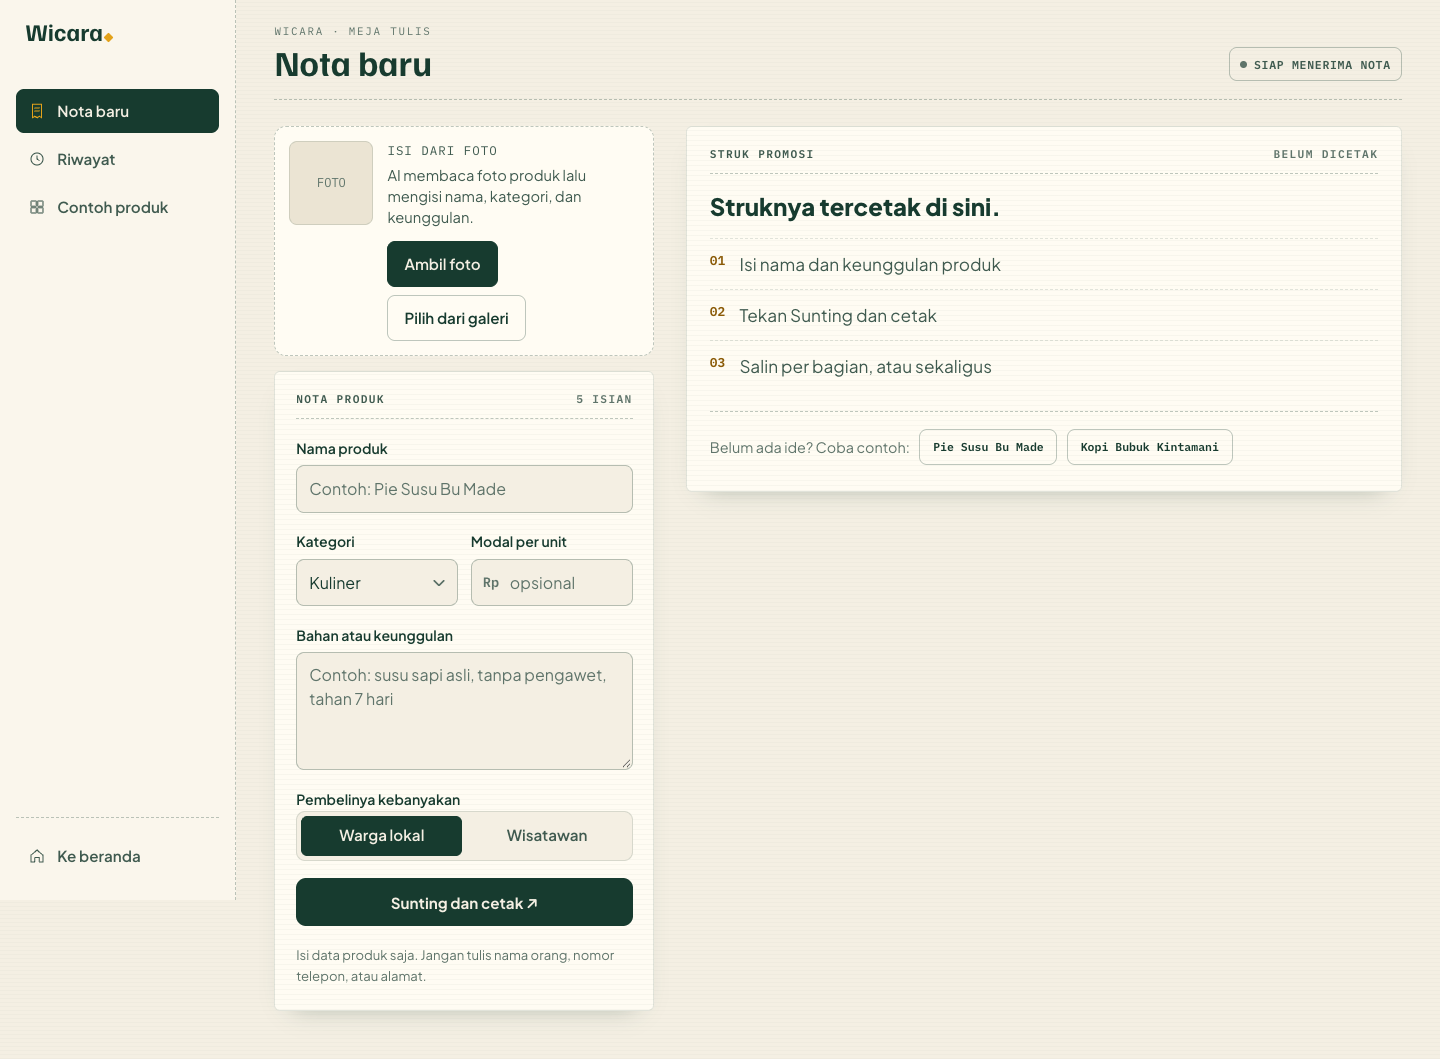
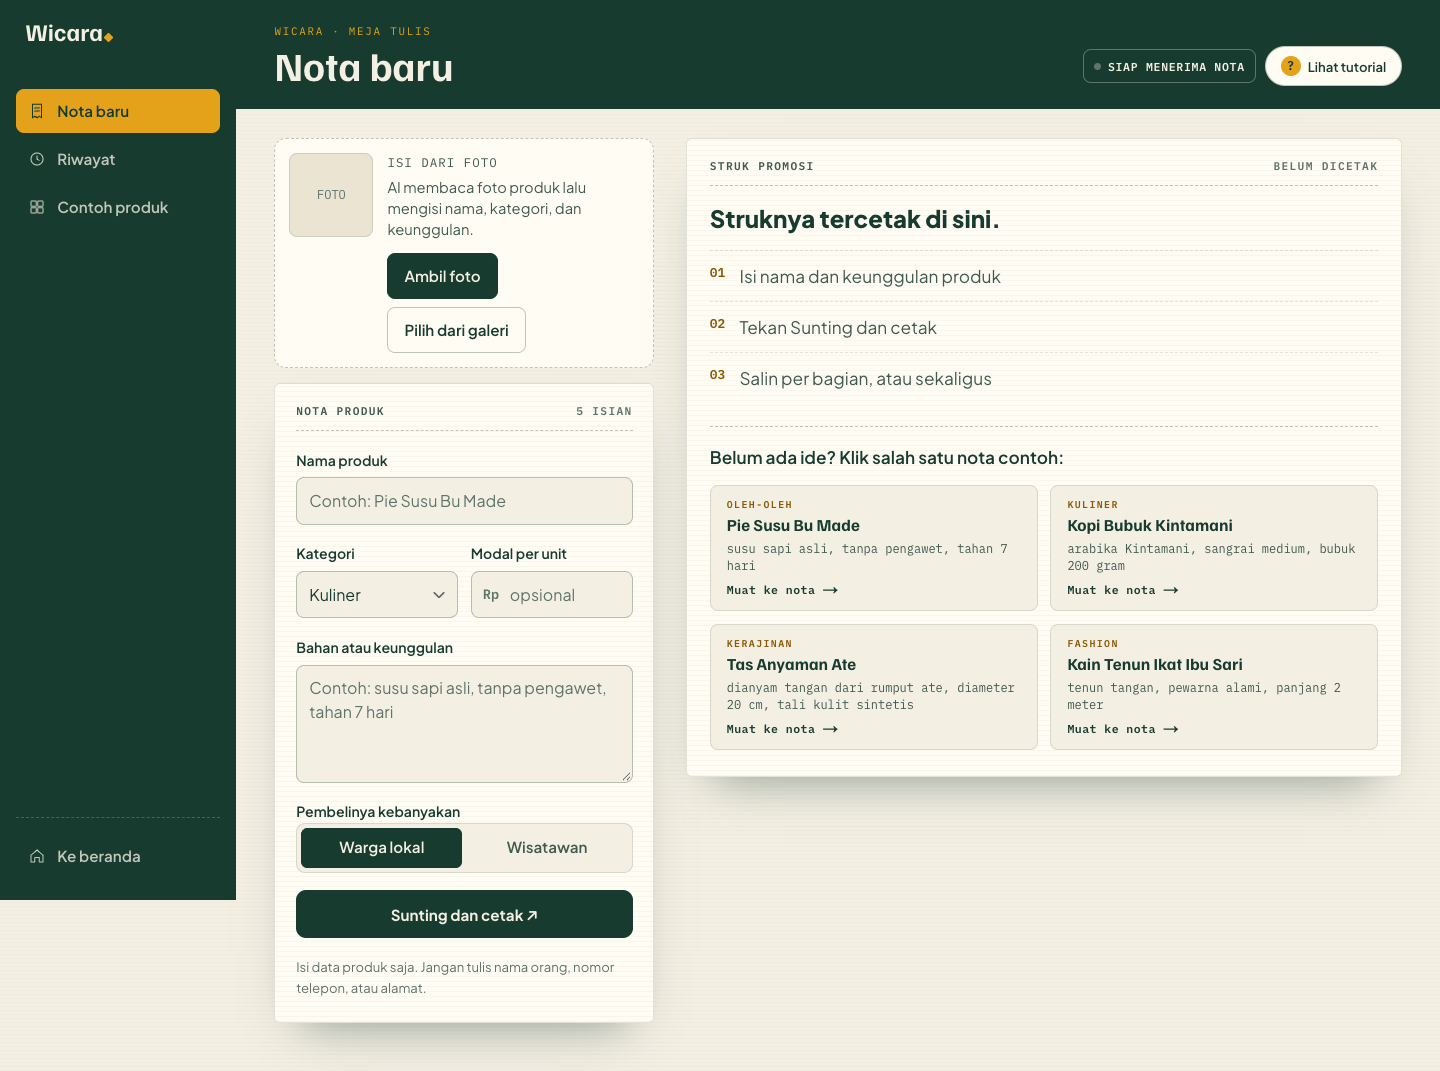
Tampilan lebih berlapis: hero foto setengah layar, latar selang-seling, app berkepala hijau
- Hero: foto lapak setengah layar sampai tepi, nota disunting di depannya dengan bayangan dalam, judul lebih besar, ornamen patra di sudut
- Latar bagian selang-seling krem, kertas, dan hijau; stempel kepala bagian terisi kunyit
- Fitur: akordion berdampingan dengan foto dan tabel Tulisan Anda | Hasil Wicara yang menumpang di atasnya
- App: kepala dan sidebar hijau daun, menu aktif kunyit, kartu bayangan lebih dalam
- Empty state app: empat nota contoh yang bisa diklik untuk memuat isian
- State memuat: baris isian disapu stabilo satu per satu dengan pena yang bergerak

diff --git a/app/globals.css b/app/globals.css
@@ -559,6 +559,76 @@ html.lenis { scroll-behavior: auto; }
 .tab-bawah [aria-current="page"] .icon { color: var(--kunyit-teks); }
 @media (min-width: 1100px) { .tab-bawah { display: none; } }
 
+
+/* ---------- Lapisan dan kedalaman (revisi 6 Nov malam) ---------- */
+.latar-2 { background-color: var(--kertas-2); }
+.latar-hi { background-color: var(--kertas-hi); }
+.kicker { border-bottom: 3px solid var(--kunyit); }
+.stempel { background: var(--kunyit); border-color: #173b2f; outline-color: #173b2f; color: #173b2f; }
+.stempel b { color: #173b2f; }
+.karbon .stempel { background: var(--kunyit); border-color: var(--kunyit); outline-color: var(--kunyit); color: #173b2f; }
+.karbon .stempel b { color: #173b2f; }
+
+/* Hero: foto setengah layar, nota menumpang di depannya */
+.hero { position: relative; overflow: hidden; }
+.hero-patra { position: absolute; left: -24px; top: 64px; width: 220px; height: 220px; opacity: 0.55; pointer-events: none; }
+.hero-judul { font-size: clamp(2.6rem, 1.5rem + 3.9vw, 4.6rem); line-height: 1; max-width: 11ch; }
+.hero-kiri { min-width: 0; }
+@media (max-width: 959px) { .hero-patra { display: none; } }
+.hero-foto::after { content: ""; position: absolute; inset: 0; background: rgb(23 59 47 / 0.16); pointer-events: none; }
+.hero .nota::before { inset: 30px 10px 40px; box-shadow: 0 60px 90px -30px rgb(10 30 22 / 0.65), 0 18px 30px -18px rgb(10 30 22 / 0.5); }
+@media (min-width: 960px) {
+  .hero { display: flex; align-items: center; min-height: calc(100vh - 64px); padding: 4.5rem 0; }
+  .hero-grid { width: 100%; grid-template-columns: 1fr 1fr; }
+  .hero-kiri { position: relative; z-index: 2; }
+  .hero-panggung { position: static; display: flex; align-items: center; min-height: 0; }
+  .hero-foto { position: absolute; top: 0; right: 0; bottom: 0; left: auto; width: 50vw; height: auto; border-radius: 0 0 0 28px; box-shadow: none; }
+  .hero-foto small { left: auto; right: 16px; }
+  .hero-panggung .nota { width: min(420px, 100%); margin: 0 0 0 -14%; }
+}
+
+/* Fitur: akordion dan visual berlapis */
+.fitur-grid { display: grid; gap: 2.4rem; margin-top: 2.4rem; align-items: start; }
+@media (min-width: 960px) { .fitur-grid { grid-template-columns: 1.15fr 0.85fr; gap: 3rem; } }
+.fitur-grid .ak { margin-top: 0; }
+.fitur-visual { position: relative; }
+.fv-foto { position: relative; display: block; aspect-ratio: 4 / 3; overflow: hidden; border-radius: 10px; box-shadow: var(--angkat); }
+.fitur-visual .tabel-nota { position: relative; width: calc(100% - 32px); max-width: none; margin: -56px 16px 0; padding: 1rem 1.1rem 0.6rem; border-collapse: separate; border-spacing: 0; background: var(--kertas-hi); border-radius: 8px; box-shadow: var(--angkat); }
+
+/* App: kepala hijau, sidebar hijau, nota contoh, pena menyunting */
+.kerja-atas { margin: -1.25rem calc(-1 * var(--tepi)) 1.6rem; padding: 1.3rem var(--tepi) 1.2rem; border-bottom: 0; background: var(--tinta); color: var(--kertas); }
+@media (min-width: 1100px) { .kerja-atas { margin: -1.6rem -2.4rem 1.8rem; padding: 1.6rem 2.4rem 1.4rem; } }
+.kerja-label { color: var(--kunyit); }
+.kerja-atas h1 { color: var(--kertas); font-size: clamp(1.8rem, 1.4rem + 1.4vw, 2.5rem); }
+.kerja-atas .status { border-color: rgb(255 255 255 / 0.3); color: var(--kertas); }
+@media (min-width: 1100px) {
+  .sisi { background: var(--tinta); border-right: 0; }
+  .sisi .merek { color: var(--kertas); }
+  .sisi .sisi-item { color: rgb(244 239 227 / 0.78); }
+  .sisi .sisi-item:hover { background: rgb(255 255 255 / 0.08); color: var(--kertas); }
+  .sisi .sisi-item[aria-current="page"] { background: var(--kunyit); color: #173b2f; }
+  .sisi .sisi-item[aria-current="page"] .icon { color: #173b2f; }
+  .sisi .sisi-bawah { border-color: rgb(255 255 255 / 0.2); }
+}
+.kertas-form, .kertas-hasil, .struk { box-shadow: var(--angkat); }
+.ka-pilih { margin-top: 1.4rem; padding-top: 1.1rem; border-top: 1.5px dashed var(--garis); font-weight: 600; }
+.ka-nota { list-style: none; display: grid; gap: 0.8rem; margin: 0.8rem 0 0; padding: 0; }
+@media (min-width: 640px) { .ka-nota { grid-template-columns: 1fr 1fr; } }
+.ka-nota button { display: flex; flex-direction: column; align-items: flex-start; gap: 0.3rem; width: 100%; height: 100%; padding: 0.9rem 1rem; border: 1.5px solid var(--garis-soft); border-radius: 8px; background: var(--kertas); text-align: left; cursor: pointer; transition: transform 0.2s var(--ease), box-shadow 0.2s, border-color 0.2s; }
+.ka-nota button:hover { transform: translateY(-3px) rotate(-0.6deg); border-color: var(--kunyit); box-shadow: var(--angkat-kecil); }
+.kn-kat { font: 600 0.62rem/1 var(--mono); letter-spacing: 0.14em; color: var(--kunyit-teks); }
+.ka-nota b { font: 700 1.05rem/1.2 var(--display); }
+.kn-isi { font: 400 0.75rem/1.45 var(--mono); color: var(--tinta-2); }
+.kn-muat { margin-top: auto; padding-top: 0.3rem; font: 600 0.72rem/1 var(--mono); letter-spacing: 0.04em; color: var(--tinta); }
+.pena-sunting { position: relative; margin: 0.4rem 0 1rem; padding: 0.6rem 0; }
+.pena-sunting p { position: relative; width: fit-content; max-width: 100%; margin: 0.35rem 0; font: 400 0.9rem/1.6 var(--mono); color: var(--tinta-2); }
+.pena-sunting p span { display: block; overflow: hidden; text-overflow: ellipsis; white-space: nowrap; }
+.pena-sunting p i { position: absolute; left: -2px; right: -2px; top: 0; bottom: 0; background: var(--stabilo); z-index: -1; transform-origin: left; transform: scaleX(0); animation: sapu-app 0.6s var(--ease) forwards; animation-delay: calc(0.3s + var(--i) * 0.6s); }
+.pena-sunting p { isolation: isolate; }
+@keyframes sapu-app { to { transform: scaleX(1); } }
+.pena-ikon { position: absolute; right: 0; top: 0; width: 34px; height: 34px; color: var(--bata); animation: tulis-app 0.9s ease-in-out infinite alternate; }
+@keyframes tulis-app { to { transform: translate(-14px, 10px) rotate(-8deg); } }
+
 @media (prefers-reduced-motion: reduce) {
   html { scroll-behavior: auto; }
   *, *::before, *::after { animation: none !important; transition: none !important; }

diff --git a/app/(landing)/page.js b/app/(landing)/page.js
@@ -5,7 +5,7 @@ import BerandaGerak from "../components/BerandaGerak";
 import KalenderBali from "../components/KalenderBali";
 import FiturAkordion from "../components/FiturAkordion";
 import GaleriNota from "../components/GaleriNota";
-import { Sulur } from "../components/Ornamen";
+import { Patra, Sulur } from "../components/Ornamen";
 import StrukHero from "../components/StrukHero";
 
 // Kepala bagian berupa stempel toko kecil yang sedikit miring.
@@ -62,6 +62,7 @@ export default function Beranda() {
   return (
     <>
       <section className="hero" aria-labelledby="hero-judul">
+        <Patra className="hero-patra" />
         <div className="wrap hero-grid">
           <div className="hero-kiri">
             <p className="kicker" data-intro><b>Wicara</b><span className="kicker-ekor">Asisten tulis jualan untuk UMKM Bali</span></p>
@@ -81,17 +82,11 @@ export default function Beranda() {
               <button type="submit" className="btn-hijau" data-magnet>Tulis sekarang <span className="panah">→</span></button>
             </form>
             <a className="tautan-garis" href="#cara-kerja" data-intro>Atau lihat cara kerja →</a>
-            <table className="tabel-nota" data-intro>
-              <thead><tr><th scope="col">Tulisan Anda</th><th scope="col">Hasil Wicara</th></tr></thead>
-              <tbody>
-                {TABEL.map(([a, b], i) => <tr key={i}><td>{a}</td><td>{b}</td></tr>)}
-              </tbody>
-            </table>
           </div>
           <div className="hero-panggung">
             <span className="hero-foto">
               <Image src="/foto/hero-umkm.jpg" alt="Pedagang sate tersenyum di pasar kuliner Bali" fill priority
-                sizes="(min-width: 960px) 520px, 92vw" style={{ objectFit: "cover", objectPosition: "42% 38%" }} />
+                sizes="(min-width: 960px) 50vw, 100vw" style={{ objectFit: "cover", objectPosition: "38% 40%" }} />
               <small>Pasar kuliner, Bali · Foto: G Y / Pexels</small>
             </span>
             <StrukHero />
@@ -158,16 +153,29 @@ export default function Beranda() {
         </div>
       </section>
 
-      <section className="sec" id="fitur" aria-labelledby="fitur-judul">
+      <section className="sec latar-2" id="fitur" aria-labelledby="fitur-judul">
         <div className="wrap">
           <Pemisah no={3} nama="Fitur" />
           <h2 id="fitur-judul" data-muncul>Empat tulisan jualan dari <span className="sorot-judul">satu nota</span>.</h2>
           <p className="intro" data-muncul>Yang distabilo kuning selalu berasal dari isian Anda. Yang tidak bisa dibuktikan, dicoret.</p>
-          <FiturAkordion />
+          <div className="fitur-grid">
+            <FiturAkordion />
+            <aside className="fitur-visual" data-muncul>
+              <span className="fv-foto">
+                <Image src="/foto/kuliner.jpg" alt="Lauk makanan jalanan Bali" fill sizes="(min-width: 960px) 420px, 92vw" style={{ objectFit: "cover", objectPosition: "50% 45%" }} />
+              </span>
+              <table className="tabel-nota">
+                <thead><tr><th scope="col">Tulisan Anda</th><th scope="col">Hasil Wicara</th></tr></thead>
+                <tbody>
+                  {TABEL.map(([a, b], i) => <tr key={i}><td>{a}</td><td>{b}</td></tr>)}
+                </tbody>
+              </table>
+            </aside>
+          </div>
         </div>
       </section>
 
-      <section className="sec" id="teknologi" aria-labelledby="tek-judul">
+      <section className="sec latar-hi" id="teknologi" aria-labelledby="tek-judul">
         <div className="wrap">
           <Pemisah no={4} nama="Di balik layar" />
           <h2 id="tek-judul" data-muncul>Dari nota sampai <span className="sorot-judul">siap posting</span>.</h2>
@@ -194,7 +202,7 @@ export default function Beranda() {
         <GaleriNota />
       </section>
 
-      <section className="sec rata-tengah" id="percaya" aria-labelledby="percaya-judul">
+      <section className="sec rata-tengah latar-2" id="percaya" aria-labelledby="percaya-judul">
         <div className="wrap">
           <Pemisah no={7} nama="Kenapa bisa dipercaya" />
           <h2 id="percaya-judul" data-muncul>Tiga hal yang dikunci sejak awal.</h2>

diff --git a/app/app/Aplikasi.js b/app/app/Aplikasi.js
@@ -312,19 +312,32 @@ export default function Aplikasi() {
                     <li><span>02</span>Tekan Sunting dan cetak</li>
                     <li><span>03</span>Salin per bagian, atau sekaligus</li>
                   </ol>
-                  <div className="ka-coba">
-                    <span>Belum ada ide? Coba contoh:</span>
-                    {CONTOH.slice(0, 2).map((c) => (
-                      <button key={c.id} type="button" className="btn-garis btn-kecil" onClick={() => muatContoh(c)}>{c.form.nama}</button>
+                  <p className="ka-pilih">Belum ada ide? Klik salah satu nota contoh:</p>
+                  <ul className="ka-nota">
+                    {CONTOH.map((c) => (
+                      <li key={c.id}>
+                        <button type="button" onClick={() => muatContoh(c)}>
+                          <span className="kn-kat">{c.form.kategori.toUpperCase()}</span>
+                          <b>{c.form.nama}</b>
+                          <span className="kn-isi">{c.form.keunggulan}</span>
+                          <span className="kn-muat">Muat ke nota →</span>
+                        </button>
+                      </li>
                     ))}
-                  </div>
+                  </ul>
                 </div>
               )}
               {!r && loading && (
                 <div className="kertas-hasil cetak" role="status">
                   <p className="kf-kepala"><span>STRUK PROMOSI</span><span>MENCETAK</span></p>
                   <p className="cetak-catat"><span className="spinner" aria-hidden="true" />Pena merah sedang menyunting nota Anda...</p>
-                  {[0, 1, 2, 3].map((i) => <span key={i} className="cetak-baris" style={{ "--i": i }} />)}
+                  <div className="pena-sunting" aria-hidden="true">
+                    {[form.nama, ...String(form.keunggulan || "").split(/[,;\n]/)].map((b) => b.trim()).filter(Boolean).slice(0, 4).map((b, i) => (
+                      <p key={i} style={{ "--i": i }}><span>{b}</span><i /></p>
+                    ))}
+                    <svg className="pena-ikon" viewBox="0 0 24 24" fill="none" stroke="currentColor" strokeWidth="1.6" strokeLinecap="round" strokeLinejoin="round"><path d="M4 20h4L19 9a2.8 2.8 0 0 0-4-4L4 16z" /><path d="M13.5 6.5l4 4" /></svg>
+                  </div>
+                  {[0, 1, 2].map((i) => <span key={i} className="cetak-baris" style={{ "--i": i }} />)}
                 </div>
               )}
               {r && (

diff --git a/app/components/BerandaGerak.js b/app/components/BerandaGerak.js
@@ -77,7 +77,7 @@ export default function BerandaGerak() {
 
       // Stempel kepala bagian: dicap, sedikit memantul.
       gsap.utils.toArray("[data-pemisah]").forEach((el) => {
-        gsap.fromTo(el, { opacity: 0, scale: 1.5, rotation: -10 }, {
+        gsap.fromTo(el, { opacity: 0, scale: 1.15, rotation: -8 }, {
           opacity: 1, scale: 1, rotation: -3, duration: 0.6, ease: "back.out(2)",
           scrollTrigger: { trigger: el, start: "top 90%", once: true },
         });
